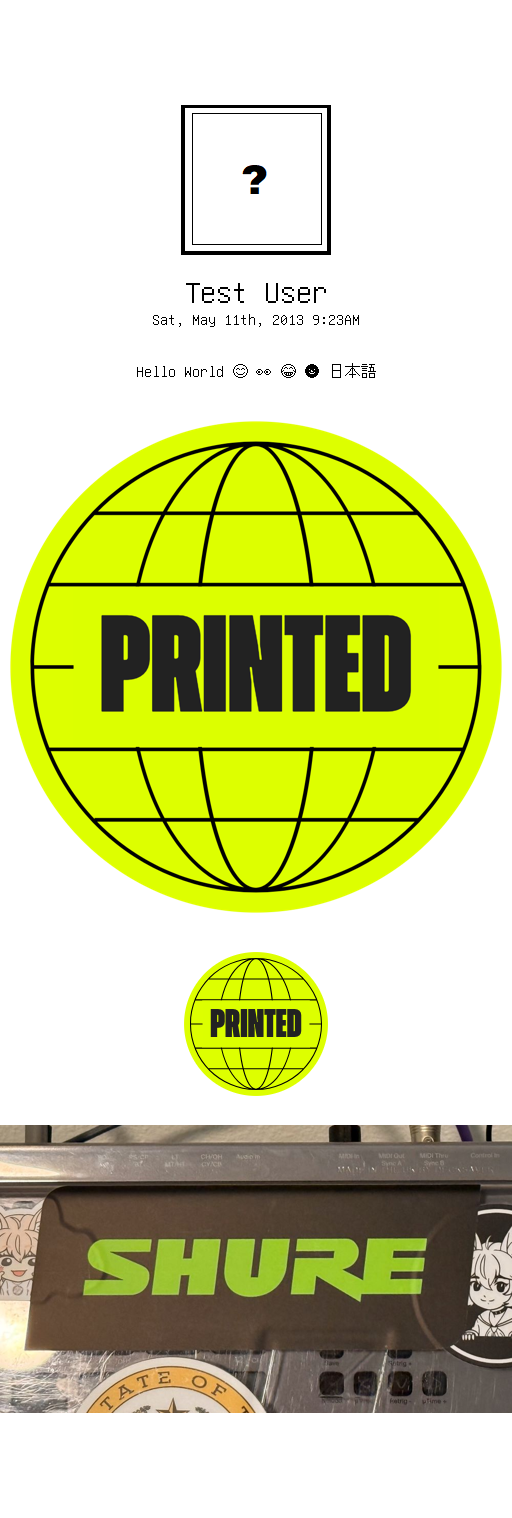
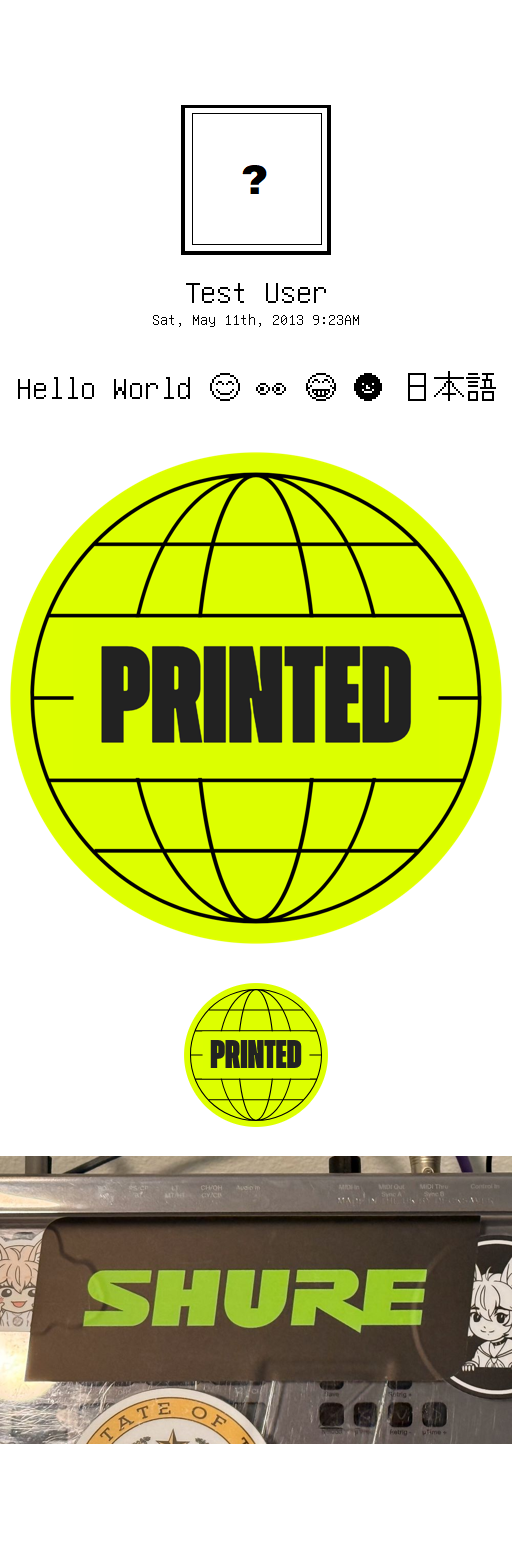
bump font size (#10)
16 was too small

diff --git a/fax_frizzle/render/engine.py b/fax_frizzle/render/engine.py
@@ -13,8 +13,8 @@ from fax_frizzle.fax import Fax
 from fax_frizzle.render.wordwrap import wordwrap
 
 _fsize = 16
-font_meta = ImageFont.truetype('unifontex.ttf', _fsize // 2)
-font_body = ImageFont.truetype('unifontex.ttf', _fsize)
+font_meta = ImageFont.truetype('unifontex.ttf', _fsize)
+font_body = ImageFont.truetype('unifontex.ttf', _fsize * 2)
 font_title = ImageFont.truetype('unifontex.ttf', _fsize * 2)
 
 gr = 1.618  # Golden ratio
@@ -74,8 +74,8 @@ def body_text_tile(width: int, text: str, font: ImageFont.FreeTypeFont, **kwargs
 def render_fax(fax: Fax, width: int) -> Image.Image:
     v_padding = int(width // (gr * 3))
 
-    if len(fax.text) > 54 or "\n" in fax.text:
-        body = body_text_tile(width, fax.text, font_body)
+    if len(fax.text) > 30 or "\n" in fax.text:
+        body = body_text_tile(width, fax.text, font_title)
     else:
         body = centered_text_tile(width, fax.text, font_body)
 
@@ -84,7 +84,7 @@ def render_fax(fax: Fax, width: int) -> Image.Image:
         make_avatar_tile(width, fax.user_avatar),
         int(v_padding // 10),
         centered_text_tile(width, fax.user_name, font_title),
-        centered_text_tile(width, fax.human_ts, font_body),
+        centered_text_tile(width, fax.human_ts, font_meta),
         int(v_padding // 4),
         body,
     ]
@@ -115,8 +115,8 @@ def render_fax(fax: Fax, width: int) -> Image.Image:
 
 def sent_to_printer_badge(ts: datetime) -> Image.Image:
     w = 275
-    stp_tile = centered_text_tile(w, "Sent to printer", font_body)
-    ts_tile = centered_text_tile(w, arrow.get(ts).format(arrow.FORMAT_RSS), font_body)
+    stp_tile = centered_text_tile(w, "Sent to printer", font_meta)
+    ts_tile = centered_text_tile(w, arrow.get(ts).format(arrow.FORMAT_RSS), font_meta)
     img = Image.new('RGB', (w, stp_tile.height + ts_tile.height + 8), color=(255, 255, 255))
     img.paste(stp_tile, (0, 0))
     img.paste(ts_tile, (0, stp_tile.height))
